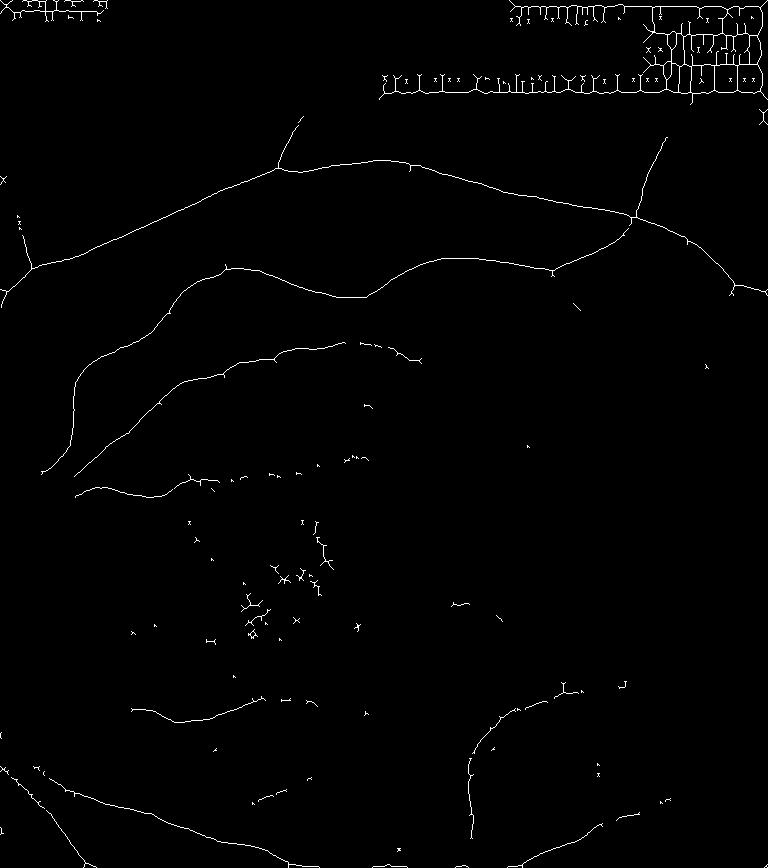
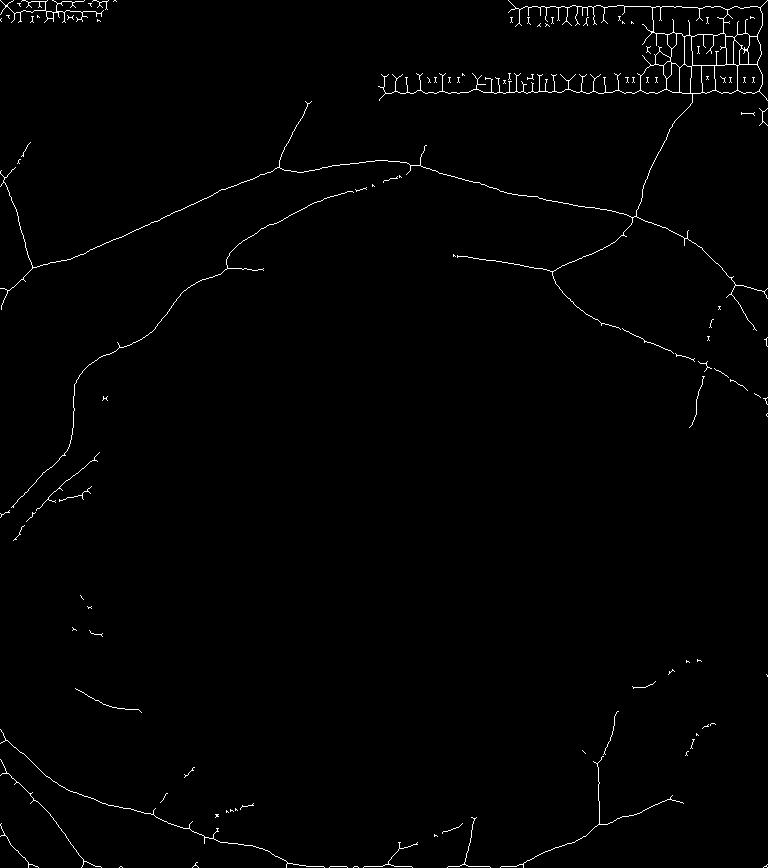
Got some vessel detection working

diff --git a/vessel_detection/vessel_detection.m b/vessel_detection/vessel_detection.m
@@ -1,7 +1,31 @@
 function [data] = compare_maculas()
 	%Read in the original image
-	color = imread('1.jpg');
+	img = '1.jpg';
+	color = imread(img);
 	original = rgb2gray(color);
+	optic_x = 0;
+	optic_y = 0;
+	macula_x = 0;
+	macula_y = 0;
+
+	%Open the XML document and parse
+	xDoc= xmlread('1.xml');
+	xRoot = xDoc.getDocumentElement;
+
+	%Get the image element from the XML file
+	images = xRoot.getChildNodes;
+	image = images.getChildNodes;
+
+	%Parse out the values from XML file
+	optic_x = str2num(image.getElementsByTagName('optic_disk').item(0).getElementsByTagName('x').item(0).getTextContent);
+	optic_y = str2num(image.getElementsByTagName('optic_disk').item(0).getElementsByTagName('y').item(0).getTextContent);
+	macula_x = str2num(image.getElementsByTagName('macula').item(0).getElementsByTagName('x').item(0).getTextContent);
+	macula_y = str2num(image.getElementsByTagName('macula').item(0).getElementsByTagName('y').item(0).getTextContent);
+
+	%Get the distance between optic disk and macula 
+	radius = sqrt(power(optic_x - macula_x, 2) + power(optic_y - macula_y, 2)) * .8;
+
+	disp(strcat(img, ' - macula_x: ', int2str(macula_x), ' macula_y: ', int2str(macula_y), ' - radius: ', num2str(radius)));
 
 	%Run Gaussian filter
 	G_para = fspecial('gaussian',[5 5], 1.2);
@@ -11,18 +35,51 @@ function [data] = compare_maculas()
 	close_filter = imclose(g_filter, strel('square', 31));
 	tophat = imsubtract(close_filter, g_filter);
 
-	%Set either value to zero or to max
-	mean_val = mean(mean(tophat)) * 3;
-	for x = 1:size(tophat,1)
-		for y = 1:size(tophat,2)
-			pixel = tophat(x, y);
-			if(pixel < mean_val)
-				tophat(x, y) = 0;
+	%Get the mean value of the grayscale
+	mean_val = double(0);
+	count = 0;
+	for y = 1:size(tophat,1)
+		for x = 1:size(tophat,2)
+			mean_val = mean_val + double(tophat(y, x));
+			count = count + 1;
+		end
+	end
+	mean_val = mean_val / count;
+
+	%Calculate the standard deviation for the distribution of gray sacle values
+	variance = double(0);
+	for y = 1:size(tophat,1)
+		for x = 1:size(tophat,2)
+			variance = variance + power((mean_val - double(tophat(y, x))), 2);
+		end
+	end
+	stddev = sqrt(variance / count);
+
+	disp(strcat('mean: ', num2str(mean_val), ' stdev: ', num2str(stddev)));
+
+	threshold = mean_val + stddev;
+
+	%Threshold this badboy
+	for x = 1:size(tophat,2)
+		for y = 1:size(tophat,1)
+			%Calculate the distnace from the macula the current point 
+			distance = sqrt(power(double(x) - macula_x, 2) + power(double(y) - macula_y, 2));
+			
+			%If the distance is greater than the radius then it is outside the circle
+			if distance >= radius
+				pixel = tophat(y, x);
+				if(pixel < threshold)
+					tophat(y, x) = 0;
+				else
+					tophat(y, x) = 255;
+				end
 			else
-				tophat(x, y) = 255;
+				tophat(y, x) = 0;
 			end
 		end
 	end
+
+	%imwrite(tophat, 'test.jpg');
 
 	%Use open morphological filtering
 	openmorph = imopen(tophat, strel('square', 3));
